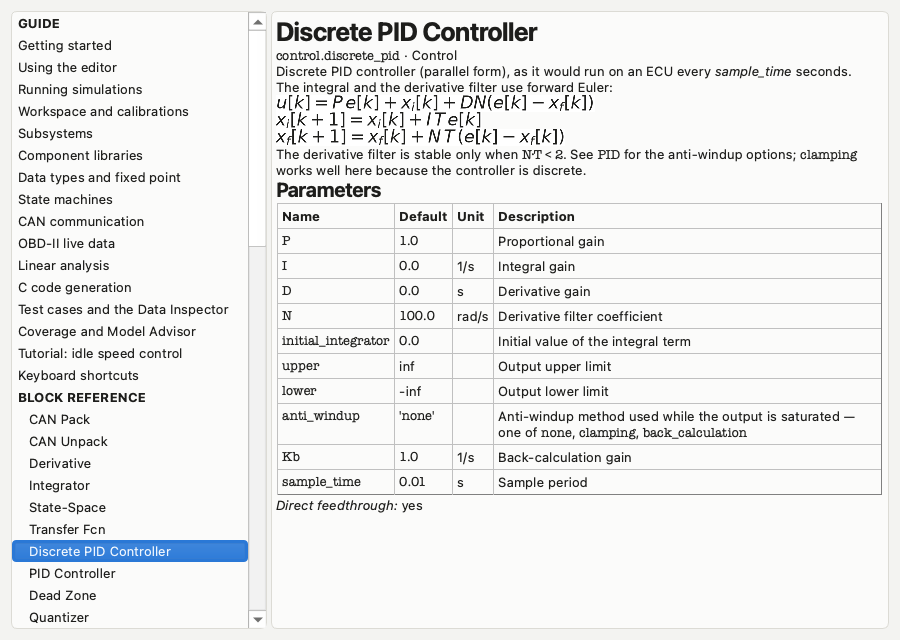
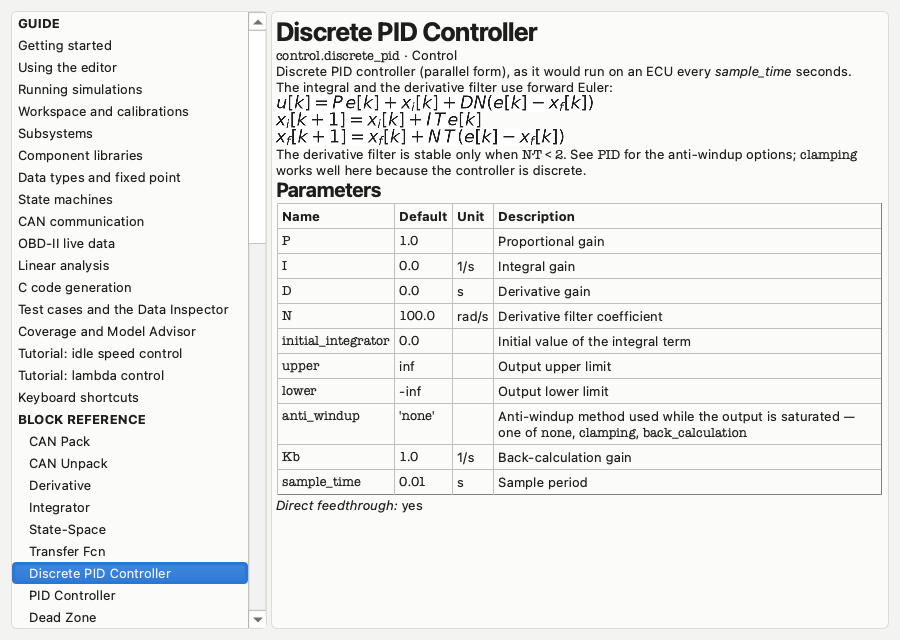
Add right-click context menus (phase 4)
- Menus for blocks, subsystems (open, mask, variants, library, code,
  break link), wires (delete) and the canvas (paste, layout, fit, up)
- Right-click keeps an existing multi-selection
- Docs, help, screenshot, GUI test

Claude-Session: https://claude.ai/code/session_01VarAEesyLXHz6dcSdpzjd5

Changed region(s): [[0.0, 0.5625, 0.28, 0.9688]]

diff --git a/src/nervus/gui/views/main_window.py b/src/nervus/gui/views/main_window.py
@@ -4,15 +4,17 @@ from __future__ import annotations
 
 from pathlib import Path
 
-from PySide6.QtCore import QPointF, QSettings, Qt
+from PySide6.QtCore import QPoint, QPointF, QSettings, Qt
 from PySide6.QtGui import QAction, QCloseEvent, QGuiApplication, QKeySequence
 from PySide6.QtWidgets import (
     QDockWidget,
     QFileDialog,
     QHBoxLayout,
+    QInputDialog,
     QLabel,
     QLineEdit,
     QMainWindow,
+    QMenu,
     QMessageBox,
     QProgressBar,
     QToolBar,
@@ -354,6 +356,7 @@ class MainWindow(QMainWindow):
         self.properties.editVariantsRequested.connect(self.edit_variants)
         self.scene.selectedBlocksChanged.connect(self.properties.show_blocks)
         self.scene.blockActivated.connect(self._block_activated)
+        self.scene.contextMenuRequested.connect(self._show_context_menu)
         self.diagnostics.blocksActivated.connect(self._highlight)
         self.diagnostics.errorBlocksChanged.connect(self.scene.mark_errors)
         self.editor.errorOccurred.connect(self._editor_error)
@@ -776,6 +779,52 @@ class MainWindow(QMainWindow):
         win.show()
         win.raise_()
         return win
+
+    # ------------------------------------------------------------------ context menus
+
+    def _show_context_menu(self, target: object, screen_pos: QPoint) -> None:
+        self.context_menu(target).exec(screen_pos)
+
+    def context_menu(self, target: object) -> QMenu:
+        """The right-click menu for a block, a wire (Connection) or the empty canvas (None)."""
+        menu = QMenu(self)
+        if isinstance(target, Block):
+            blocks = self.scene.selected_blocks()
+            if len(blocks) <= 1:
+                is_sub = getattr(target, "system", None) is not None
+                if is_sub:
+                    menu.addAction("Open Subsystem", lambda: self.diagram_model.enter(target))
+                elif target.type_id == "sinks.scope":
+                    menu.addAction("Open Scope", lambda: self.open_scope(target))
+                menu.addAction("Rename…", lambda: self.rename_block(target))
+                menu.addAction(self.act_block_help)
+                if is_sub:
+                    menu.addSeparator()
+                    if getattr(target, "library_link", None) is None:
+                        menu.addAction("Edit Mask…", lambda: self.edit_mask(target))
+                        menu.addAction("Variants…", lambda: self.edit_variants(target))
+                    else:
+                        menu.addAction("Break Library Link", lambda: self.editor.break_link(target))
+                    menu.addAction(self.act_save_to_library)
+                    menu.addAction(self.act_codegen)
+            menu.addSeparator()
+            menu.addActions([self.act_cut, self.act_copy, self.act_delete])
+            menu.addAction(self.act_create_subsystem)
+        elif target is not None:  # a wire
+            menu.addAction("Delete Wire", lambda: self.editor.delete([], [target]))  # type: ignore[list-item]
+        else:
+            menu.addAction(self.act_paste)
+            menu.addAction(self.act_select_all)
+            menu.addSeparator()
+            menu.addActions([self.act_layout, self.act_fit])
+            if self.diagram_model.diagram.parent is not None:
+                menu.addAction(self.act_up)
+        return menu
+
+    def rename_block(self, block: Block) -> None:
+        name, ok = QInputDialog.getText(self, "Rename block", "New name:", text=block.name)
+        if ok and name.strip() and name.strip() != block.name:
+            self.editor.rename(block, name.strip())
 
     def _block_activated(self, block: Block) -> None:
         if getattr(block, "system", None) is not None:

diff --git a/src/nervus/gui/views/canvas.py b/src/nervus/gui/views/canvas.py
@@ -16,6 +16,7 @@ from PySide6.QtWidgets import (
     QGraphicsItem,
     QGraphicsPathItem,
     QGraphicsScene,
+    QGraphicsSceneContextMenuEvent,
     QGraphicsSceneDragDropEvent,
     QGraphicsSceneMouseEvent,
     QGraphicsView,
@@ -41,6 +42,7 @@ def block_mime(type_id: str) -> QMimeData:
 class DiagramScene(QGraphicsScene):
     selectedBlocksChanged = Signal(list)  # list[Block]
     blockActivated = Signal(object)  # Block (double-click)
+    contextMenuRequested = Signal(object, object)  # Block | Connection | None, QPoint (screen position)
 
     def __init__(self, model: DiagramModel, controller: EditorController, parent: Any = None) -> None:
         super().__init__(parent)
@@ -284,6 +286,24 @@ class DiagramScene(QGraphicsScene):
             if self.model.diagram.driver(item.block, p.index) is None:
                 return p
         return ports[0] if ports else None
+
+    def contextMenuEvent(self, event: QGraphicsSceneContextMenuEvent) -> None:
+        """Right-click: select what is under the mouse (keeping a multi-selection) and ask for its menu."""
+        target: object = None
+        block_item = self._block_at(event.scenePos())
+        if block_item is not None:
+            if not block_item.isSelected():
+                self.clearSelection()
+                block_item.setSelected(True)
+            target = block_item.block
+        else:
+            wire = next((i for i in self.items(event.scenePos()) if isinstance(i, WireItem)), None)
+            if wire is not None:
+                self.clearSelection()
+                wire.setSelected(True)
+                target = wire.connection
+        self.contextMenuRequested.emit(target, event.screenPos())
+        event.accept()
 
     def mouseDoubleClickEvent(self, event: QGraphicsSceneMouseEvent) -> None:
         item = self._block_at(event.scenePos())

diff --git a/tests/gui/test_subsystem_gui.py b/tests/gui/test_subsystem_gui.py
@@ -162,3 +162,23 @@ def test_component_library_workflow(window, tmp_path) -> None:  # type: ignore[n
     ed.undo_stack.undo()
     assert copy.library_link is not None
     window.library.remove_library(lib.resolve())
+
+
+def test_context_menus(window) -> None:  # type: ignore[no-untyped-def]
+    ed = window.editor
+    c = ed.add_block("sources.constant", QPointF(0, 0))
+    g = ed.add_block("math.gain", QPointF(150, 0))
+    ed.connect_ports(c, 0, g, 0)
+    sub = ed.create_subsystem([g])
+    texts = lambda menu: [a.text() for a in menu.actions() if a.text()]  # noqa: E731
+    window.scene.select_blocks([sub.name])
+    sub_menu = texts(window.context_menu(sub))
+    assert "Open Subsystem" in sub_menu and "Edit Mask…" in sub_menu and "Variants…" in sub_menu
+    window.scene.select_blocks([c.name])
+    assert "Rename…" in texts(window.context_menu(c))
+    wire = window.diagram_model.diagram.connections[0]
+    menu = window.context_menu(wire)
+    assert texts(menu) == ["Delete Wire"]
+    menu.actions()[0].trigger()
+    assert not window.diagram_model.diagram.connections
+    assert any("Layout" in t for t in texts(window.context_menu(None)))

diff --git a/scripts/screenshots.py b/scripts/screenshots.py
@@ -200,6 +200,16 @@ def main() -> None:
             grab(mdlg, "mask-dialog.png")
             mdlg.close()
 
+            # Right-click menu of a subsystem.
+            md4, sub4 = masked_example()
+            win.diagram_model.set_diagram(md4)
+            win.scene.select_blocks([sub4.name])
+            cmenu = win.context_menu(sub4)
+            cmenu.popup(win.mapToGlobal(win.rect().center()))
+            QApplication.processEvents()
+            grab(cmenu, "context-menu.png")
+            cmenu.close()
+
             # Atomic subsystems with their own task period.
             win.diagram_model.set_diagram(tasks_example())
             win.view.fit()

diff --git a/docs/editor.md b/docs/editor.md
@@ -24,6 +24,22 @@ Dark mode follows the system setting, or choose it under **View → Theme**:
 
 ![The editor in dark mode](images/editor-dark.png)
 
+## Right-click menus
+
+Right-click a block, a wire or the empty canvas for the actions that fit it:
+
+![The right-click menu of a subsystem](images/context-menu.png)
+
+| On | Actions |
+|---|---|
+| a block | Rename, help, cut / copy / delete, create a subsystem from the selection; *Open Scope* for scopes |
+| a subsystem | also *Open Subsystem*, *Edit Mask…*, *Variants…*, *Save Subsystem to Library…*, *Generate C Code…* (or *Break Library Link* when it is linked) |
+| a wire | *Delete Wire* |
+| the canvas | paste, select all, auto layout, fit to window, up to the parent system |
+
+Right-clicking a block that is part of a selection keeps the selection, so *Delete* or *Create Subsystem*
+act on all selected blocks.
+
 ## Running a simulation
 
 Press **▶ Run** (⌘R / Ctrl+R / F5). The simulation runs in the background, so the window stays responsive,

diff --git a/docs/app-help/editor.md b/docs/app-help/editor.md
@@ -30,6 +30,20 @@ Panels can be moved, closed and reopened from the **View** menu.
   new line to an input that is already used replaces the old line.
 - Click a line to select it; Delete removes it.
 
+## Right-click menus
+
+Right-click a block, a wire or the empty canvas for the actions that fit it:
+
+| On | Actions |
+|---|---|
+| a block | Rename, help, cut / copy / delete, create a subsystem from the selection; *Open Scope* for scopes |
+| a subsystem | also *Open Subsystem*, *Edit Mask…*, *Variants…*, *Save Subsystem to Library…*, *Generate C Code…* (or *Break Library Link* when it is linked) |
+| a wire | *Delete Wire* |
+| the canvas | paste, select all, auto layout, fit to window, up to the parent system |
+
+Right-clicking a block that is part of a selection keeps the selection, so *Delete* or *Create Subsystem*
+act on all selected blocks.
+
 ## Editing parameters
 
 Numeric fields accept:

diff --git a/src/nervus/gui/resources/help/editor.md b/src/nervus/gui/resources/help/editor.md
@@ -30,6 +30,20 @@ Panels can be moved, closed and reopened from the **View** menu.
   new line to an input that is already used replaces the old line.
 - Click a line to select it; Delete removes it.
 
+## Right-click menus
+
+Right-click a block, a wire or the empty canvas for the actions that fit it:
+
+| On | Actions |
+|---|---|
+| a block | Rename, help, cut / copy / delete, create a subsystem from the selection; *Open Scope* for scopes |
+| a subsystem | also *Open Subsystem*, *Edit Mask…*, *Variants…*, *Save Subsystem to Library…*, *Generate C Code…* (or *Break Library Link* when it is linked) |
+| a wire | *Delete Wire* |
+| the canvas | paste, select all, auto layout, fit to window, up to the parent system |
+
+Right-clicking a block that is part of a selection keeps the selection, so *Delete* or *Create Subsystem*
+act on all selected blocks.
+
 ## Editing parameters
 
 Numeric fields accept:

diff --git a/CHANGELOG.md b/CHANGELOG.md
@@ -14,6 +14,8 @@ All notable changes to this project are documented here. The format follows
 - Discrete blocks with an inherited sample time used −1 as their period (Rate Limiter, Discrete Filter, ...).
 
 ### Added
+- Right-click menus on blocks, subsystems, wires and the canvas (rename, open, mask, variants, library, code,
+  delete wire, layout, ...).
 - Example and tutorial: lambda closed-loop control with short- and long-term fuel trims (vacuum leak, clogged
   injector), with the link to the OBD-II fuel trim PIDs.
 - `generate_c` for an atomic subsystem uses its own sample time.

diff --git a/plan.md b/plan.md
@@ -114,7 +114,7 @@ tests/
 - [ ] Rotate / flip blocks, resize blocks, nudge with arrow keys
 - [x] Show data types on the canvas (View → Show Data Types)
 - [ ] Show signal widths and sample-time colours on the canvas (like Simulink's "port data types" / "sample time colors")
-- [ ] Right-click context menus on blocks, wires and the canvas
+- [x] Right-click context menus on blocks, wires and the canvas
 
 ## Phase 6 – Documentation and in-app help
 - [x] User guide (Python API): getting started, concepts, coming from Simulink, model files
